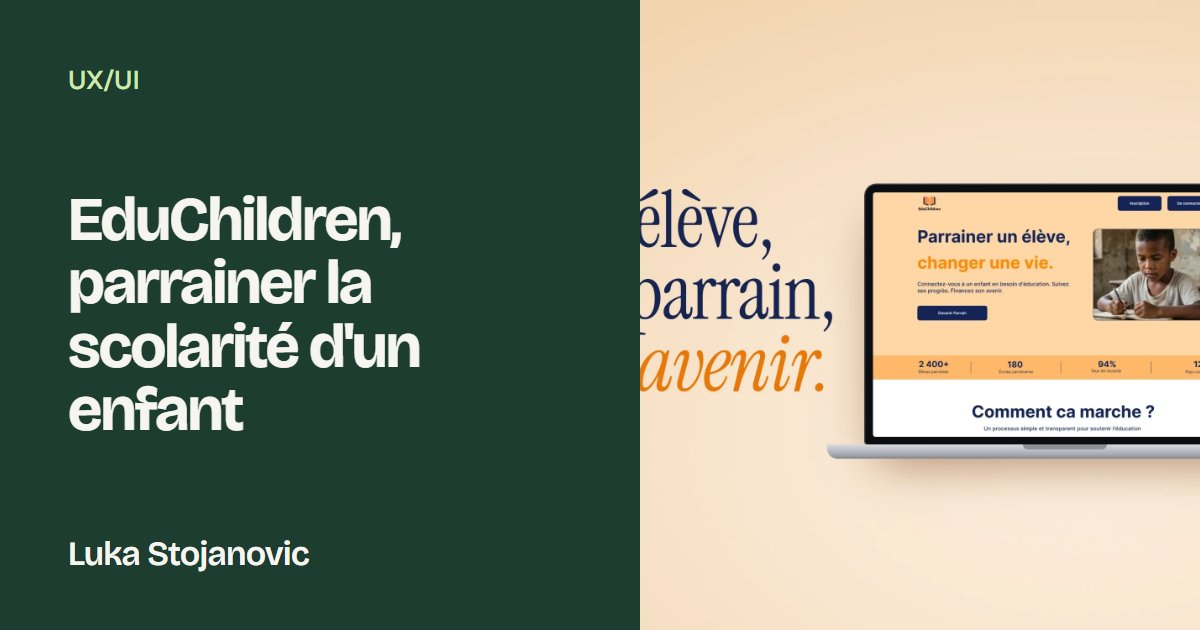
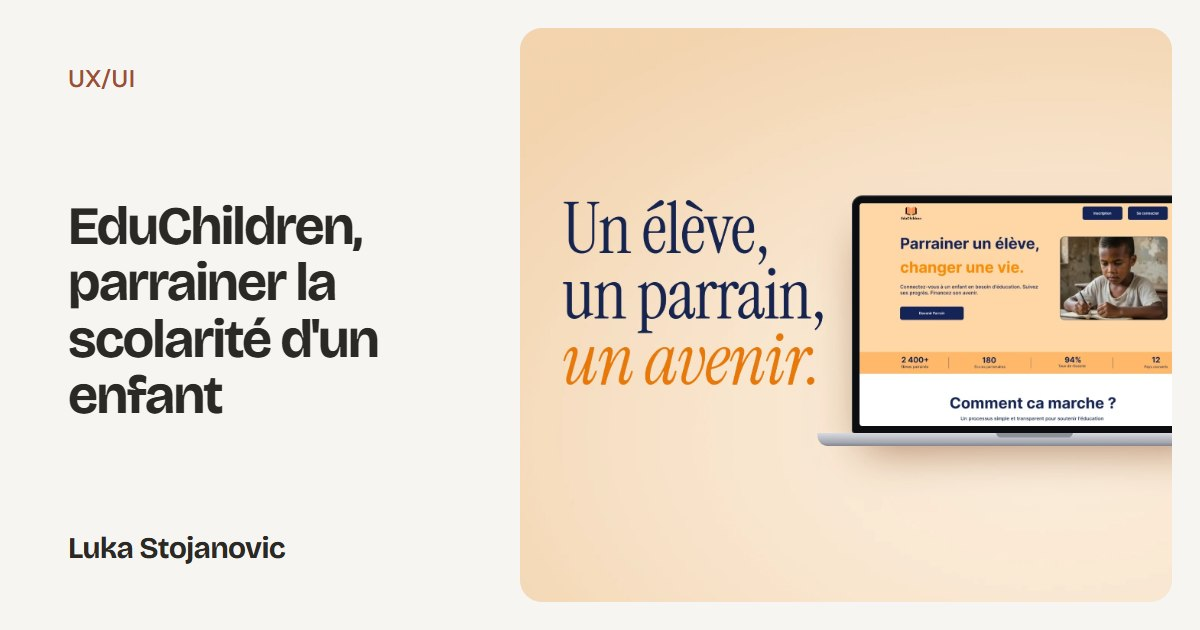
Images de partage et icône LS aux nouvelles couleurs, icône iPhone

diff --git a/404.html b/404.html
@@ -8,6 +8,7 @@
 <meta name="robots" content="noindex">
 <meta name="theme-color" content="#F7F5F1">
 <link rel="icon" href="/favicon.svg" type="image/svg+xml">
+<link rel="apple-touch-icon" href="/apple-touch-icon.png">
 <link rel="preconnect" href="https://fonts.googleapis.com">
 <link rel="preconnect" href="https://fonts.gstatic.com" crossorigin>
 <link href="https://fonts.googleapis.com/css2?family=Bricolage+Grotesque:opsz,wght@12..96,700&family=Figtree:wght@500;600&display=swap" rel="stylesheet">

diff --git a/projets/streamsense/index.html b/projets/streamsense/index.html
@@ -12,6 +12,7 @@
 <link rel="canonical" href="https://luka-stojanovic.ch/projets/streamsense/">
 <link rel="preload" as="image" href="/assets/img/stream/cover.webp" fetchpriority="high">
 <link rel="icon" href="/favicon.svg" type="image/svg+xml">
+<link rel="apple-touch-icon" href="/apple-touch-icon.png">
 <!-- Open Graph -->
 <meta property="og:type" content="article">
 <meta property="og:site_name" content="Luka Stojanovic">

diff --git a/projets/visualdon/index.html b/projets/visualdon/index.html
@@ -12,6 +12,7 @@
 <link rel="canonical" href="https://luka-stojanovic.ch/projets/visualdon/">
 <link rel="preload" as="image" href="/assets/img/vdon/landing.webp" fetchpriority="high">
 <link rel="icon" href="/favicon.svg" type="image/svg+xml">
+<link rel="apple-touch-icon" href="/apple-touch-icon.png">
 <!-- Open Graph -->
 <meta property="og:type" content="article">
 <meta property="og:site_name" content="Luka Stojanovic">

diff --git a/projets/yearbook/index.html b/projets/yearbook/index.html
@@ -12,6 +12,7 @@
 <link rel="canonical" href="https://luka-stojanovic.ch/projets/yearbook/">
 <link rel="preload" as="image" href="/assets/img/yearbook/hero.webp" fetchpriority="high">
 <link rel="icon" href="/favicon.svg" type="image/svg+xml">
+<link rel="apple-touch-icon" href="/apple-touch-icon.png">
 <!-- Open Graph -->
 <meta property="og:type" content="article">
 <meta property="og:site_name" content="Luka Stojanovic">

diff --git a/projets/etoile/index.html b/projets/etoile/index.html
@@ -12,6 +12,7 @@
 <link rel="canonical" href="https://luka-stojanovic.ch/projets/etoile/">
 <link rel="preload" as="image" href="/assets/img/etoile.webp" fetchpriority="high">
 <link rel="icon" href="/favicon.svg" type="image/svg+xml">
+<link rel="apple-touch-icon" href="/apple-touch-icon.png">
 <!-- Open Graph -->
 <meta property="og:type" content="article">
 <meta property="og:site_name" content="Luka Stojanovic">

diff --git a/projets/odd/index.html b/projets/odd/index.html
@@ -12,6 +12,7 @@
 <link rel="canonical" href="https://luka-stojanovic.ch/projets/odd/">
 <link rel="preload" as="image" href="/assets/img/odd/cover.webp" fetchpriority="high">
 <link rel="icon" href="/favicon.svg" type="image/svg+xml">
+<link rel="apple-touch-icon" href="/apple-touch-icon.png">
 <!-- Open Graph -->
 <meta property="og:type" content="article">
 <meta property="og:site_name" content="Luka Stojanovic">

diff --git a/projets/pulse/index.html b/projets/pulse/index.html
@@ -12,6 +12,7 @@
 <link rel="canonical" href="https://luka-stojanovic.ch/projets/pulse/">
 <link rel="preload" as="image" href="/assets/img/pulse.webp" fetchpriority="high">
 <link rel="icon" href="/favicon.svg" type="image/svg+xml">
+<link rel="apple-touch-icon" href="/apple-touch-icon.png">
 <!-- Open Graph -->
 <meta property="og:type" content="article">
 <meta property="og:site_name" content="Luka Stojanovic">

diff --git a/index.html b/index.html
@@ -11,6 +11,7 @@
 <meta name="theme-color" content="#F7F5F1">
 <link rel="canonical" href="https://luka-stojanovic.ch/">
 <link rel="icon" href="/favicon.svg" type="image/svg+xml">
+<link rel="apple-touch-icon" href="/apple-touch-icon.png">
 <!-- Open Graph -->
 <meta property="og:type" content="website">
 <meta property="og:site_name" content="Luka Stojanovic">
